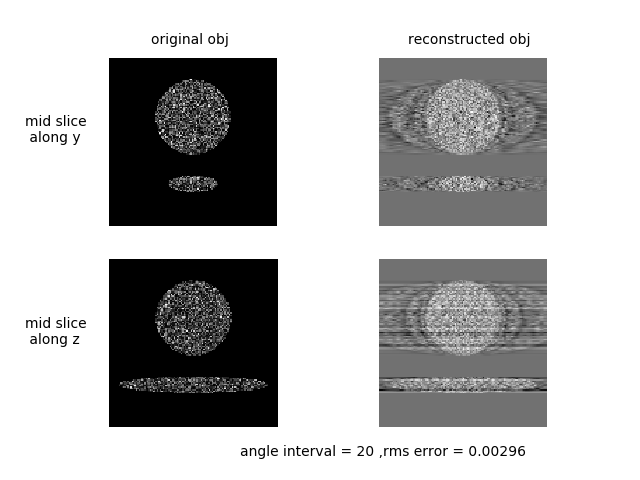
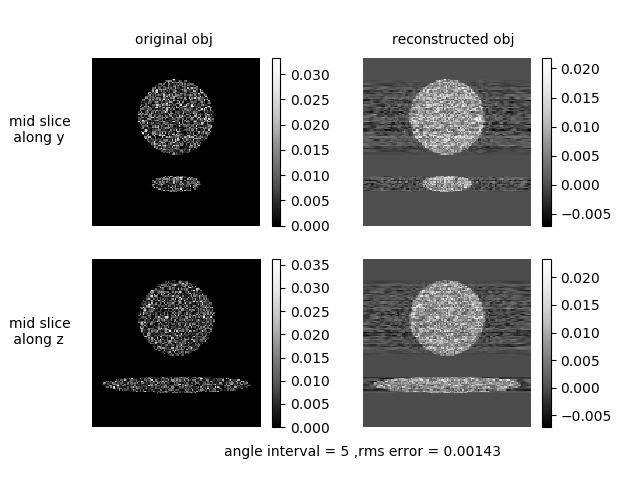
more figures

diff --git a/3D_recon.py b/3D_recon.py
@@ -63,7 +63,7 @@ if __name__ == "__main__":
     # obj = low_pass_filter_density_map(obj)
 
 
-    angle_interval = 20
+    angle_interval = 5
     theta = range(0,180,angle_interval)
     sinograms, theta = slice_wise_radon(obj, theta=theta)
     projections = constract_projections(sinograms, theta)
@@ -74,15 +74,16 @@ if __name__ == "__main__":
     rms = np.std(error)
     print("rms error = {}".format(np.std(error)))
 
+    # visulization 1: comparasion
     fig1, ((ax1,ax2), (ax3,ax4)) = plt.subplots(ncols = 2, nrows = 2)
-    index = 60
+    index = int(Ny/2)
     axis = 1
-    ax1.imshow(get_obj_slice(obj, index, axis), cmap=plt.cm.Greys_r)
-    ax2.imshow(get_obj_slice(recon_obj, index, axis), cmap=plt.cm.Greys_r)
-    index = 60
+    im1 = ax1.imshow(get_obj_slice(obj, index, axis), cmap=plt.cm.Greys_r)
+    im2 = ax2.imshow(get_obj_slice(recon_obj, index, axis), cmap=plt.cm.Greys_r)
+    index = int(Nz/2)
     axis = 2
-    ax3.imshow(get_obj_slice(obj, index, axis), cmap=plt.cm.Greys_r)
-    ax4.imshow(get_obj_slice(recon_obj, index, axis), cmap=plt.cm.Greys_r)
+    im3 = ax3.imshow(get_obj_slice(obj, index, axis), cmap=plt.cm.Greys_r)
+    im4 = ax4.imshow(get_obj_slice(recon_obj, index, axis), cmap=plt.cm.Greys_r)
 
     ax1.text(30,-10,"original obj")
     ax2.text(20,-10,"reconstructed obj")
@@ -95,10 +96,40 @@ if __name__ == "__main__":
     ax3.axis("off")
     ax4.axis("off")
 
+    fig1.colorbar(im1, ax=ax1)
+    fig1.colorbar(im2, ax=ax2)
+    fig1.colorbar(im3, ax=ax3)
+    fig1.colorbar(im4, ax=ax4)
 
-    # plt.imshow(projections[:,:,0], cmap=plt.cm.Greys_r)
 
     plt.savefig("mid_slices.png")
+
+    # visulization 2: sinograms
+    index = 90
+    fig2, (ax1, ax2) = plt.subplots(ncols = 2)
+    print(sinograms[:,:,3].shape)
+    im1 = ax1.imshow(get_obj_slice(obj, index, axis=0), cmap = plt.cm.Greys_r)
+    im2 = ax2.imshow(sinograms[:,:,index], cmap = plt.cm.Greys_r)
+    ax1.set_title("slice along x")
+    ax2.set_title("corresponding sinogram")
+    fig2.colorbar(im1, ax = ax1)
+    fig2.colorbar(im2, ax = ax2)
+    plt.savefig("sinograms.png")
+
+
+    # visulization 3: projections
+    indexes = np.linspace(0, len(theta)-1, 5, dtype=int)
+    fig3, axes = plt.subplots(ncols = len(indexes))
+    for i in range(len(indexes)):
+        im = axes[i].imshow(projections[:,:,indexes[i]], cmap = plt.cm.Greys_r)
+        axes[i].axis("off")
+        axes[i].set_title("proj @ {}".format(theta[indexes[i]]))
+        # fig3.colorbar(im, ax = axes[i])
+    plt.savefig("projections.png")
+
+
+
+
     plt.show()
 
 
